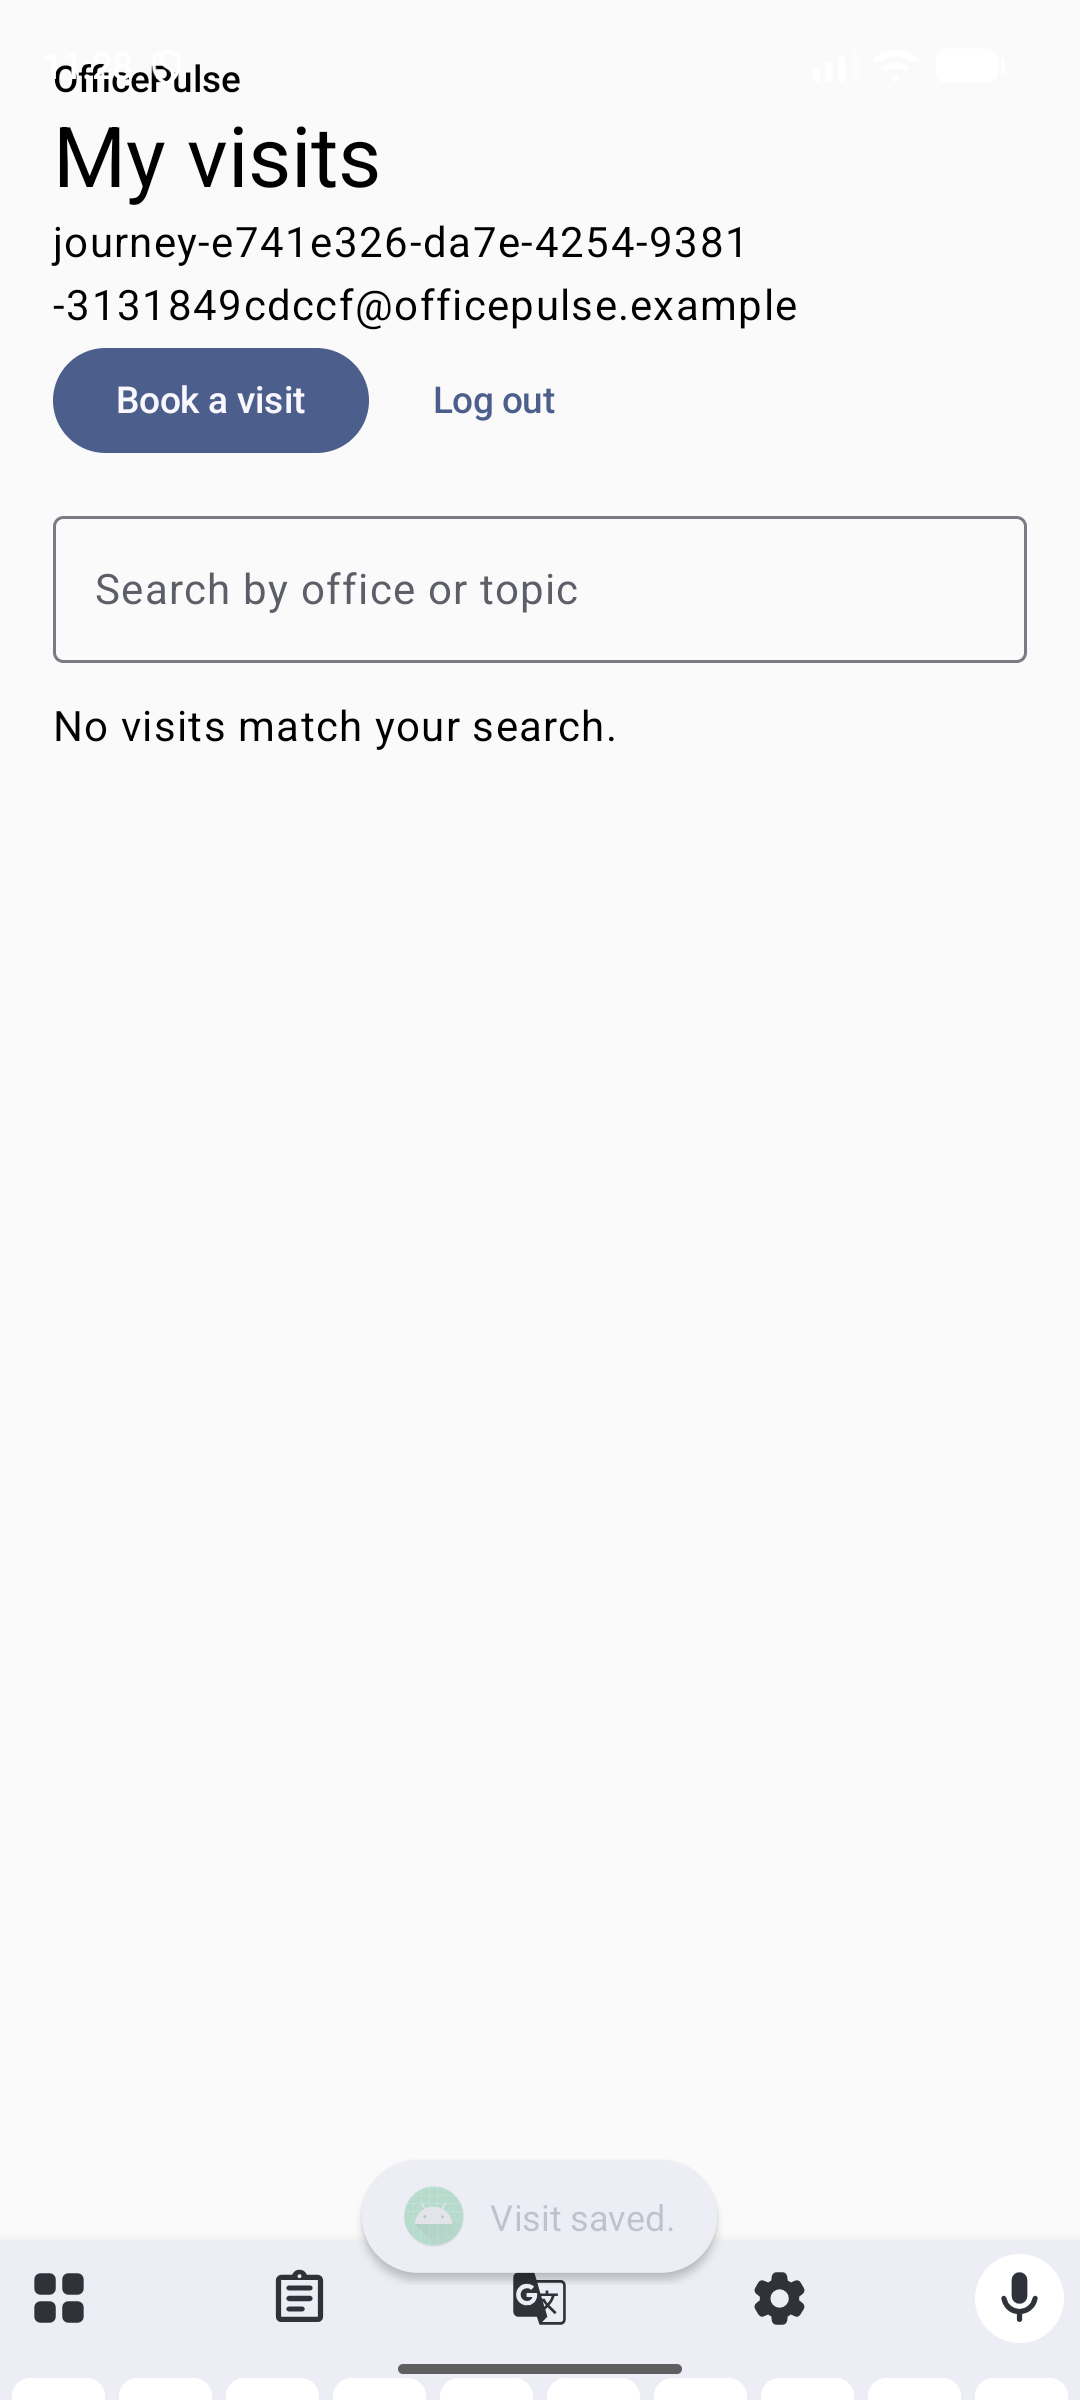
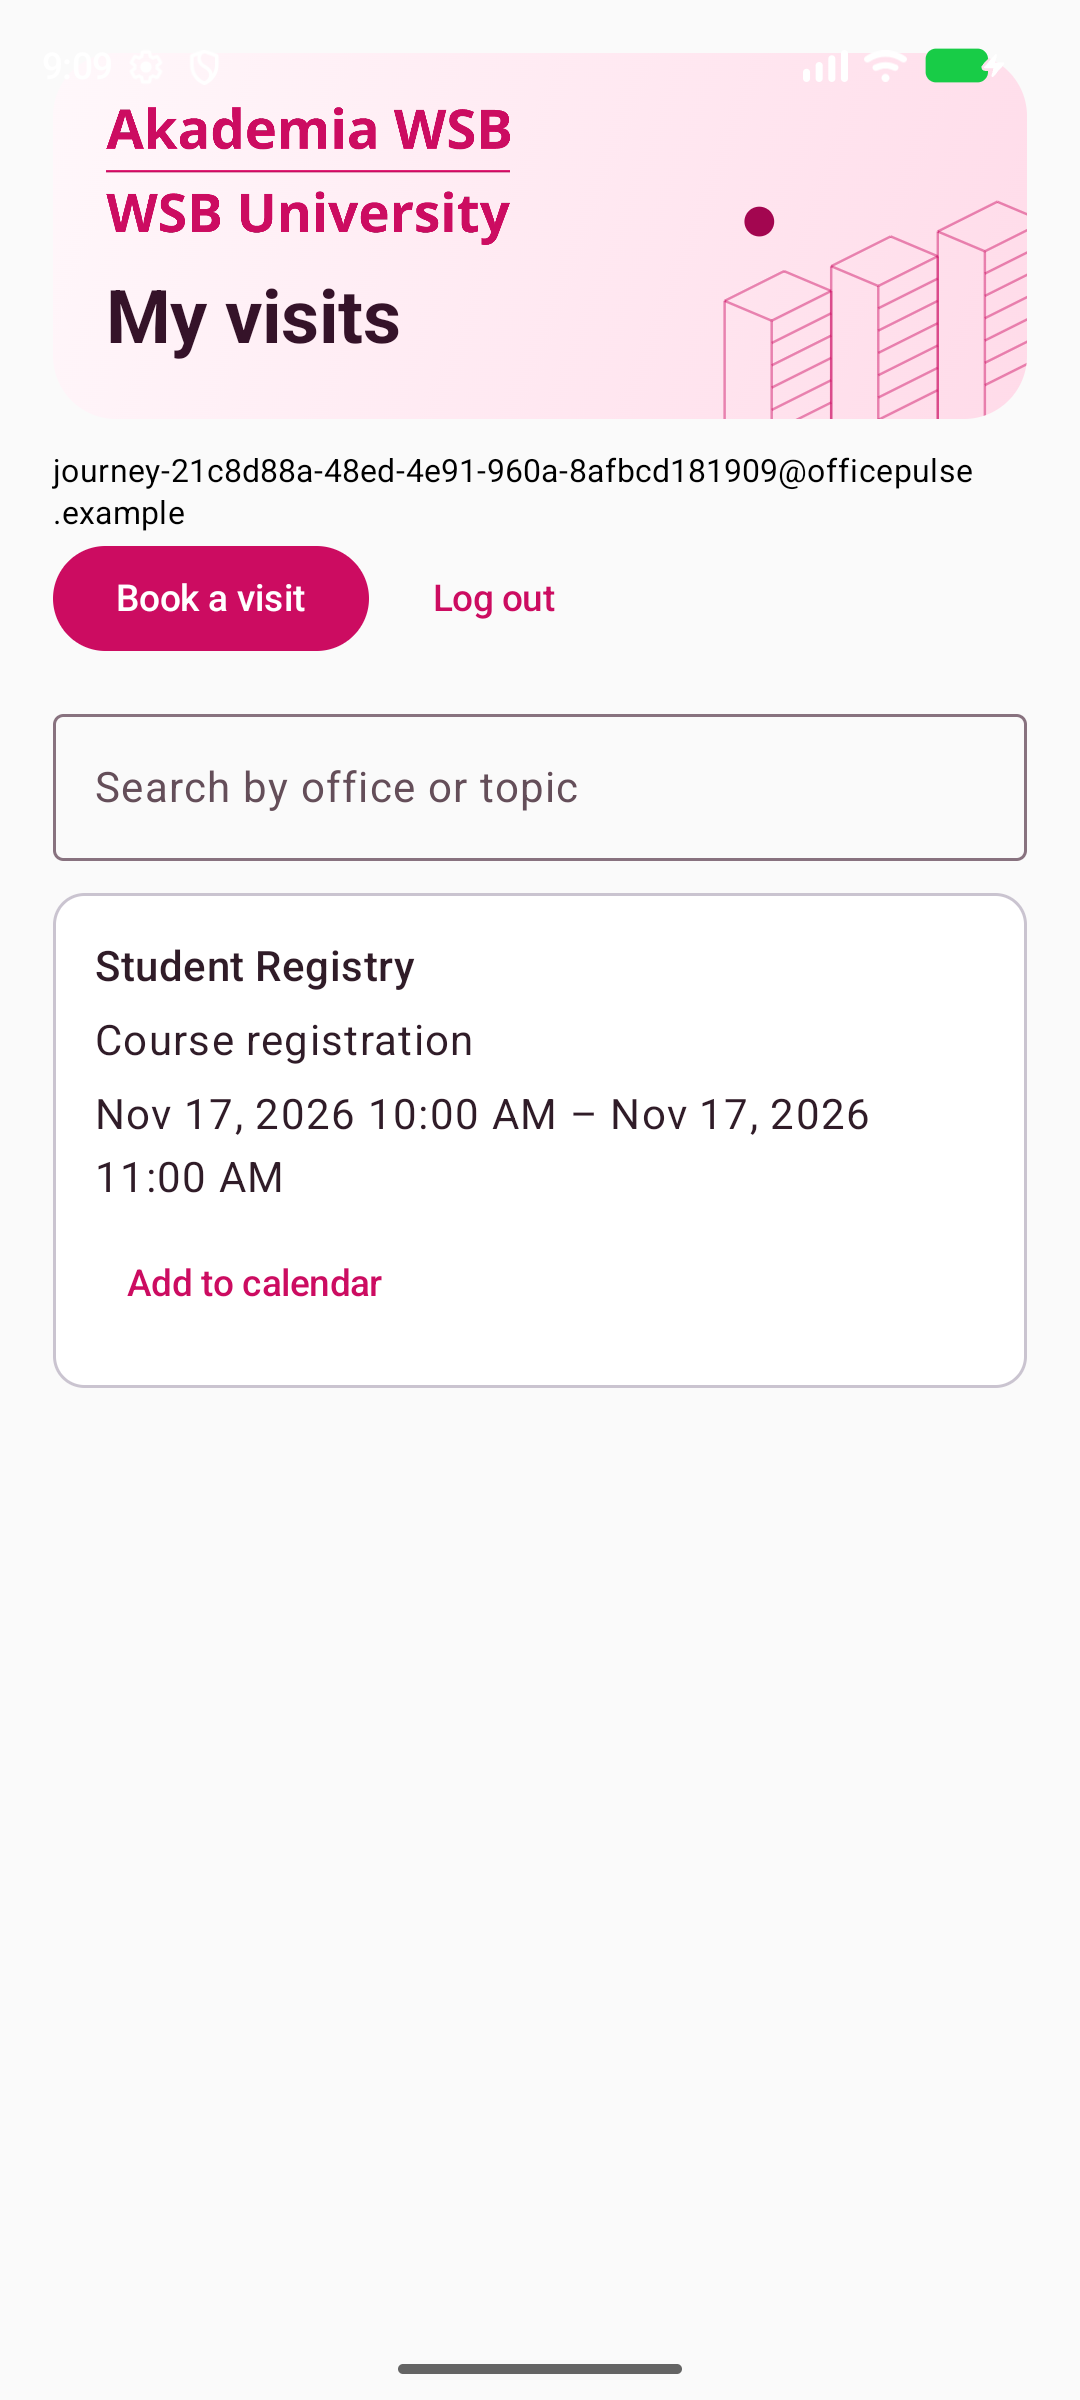
Save successful Lab 2 device tests, refreshed screenshots and team work plan

diff --git a/docs/lab2-work-plan.md b/docs/lab2-work-plan.md
@@ -1,0 +1,22 @@
+# OfficePulse sprint issues and proposed owners
+
+The assignees below own the next acceptance check or follow-up. Each teammate records their own changes, device checks, comments and approvals. The existing Lab 1 stories for browsing offices, booking, visits and queue updates are #4–#7. The last Lab 1 retrospective is #8.
+
+## Lab 2
+
+| Issue | Assignee | Acceptance criteria |
+| --- | --- | --- |
+| R2 · Seed read-only offices and configure Firestore | Mohamad Yazan Alsaloumi | Start the emulators, inspect three offices with numeric service minutes and verify the stack table. |
+| R3 · Verify the visit data model | Mohamad Yazan Alsaloumi | Compare every README field, type and setter with a stored booking. Confirm the owner comes from the session. |
+| R4 · Review the visit repository and state holders | Nasser Almassry | Confirm injectable repository, one ViewModel per booking screen, pure validation, and zero backend calls from Compose UI. Identify and implement any review fixes. |
+| R5 · Show my visits live | Mohamad Yazan Alsaloumi | Add a visit in the console while its owner is signed in. The row appears live. Verify that signing in as the other account hides it. |
+| R6 · Verify booking and rescheduling | Mohamad Yazan Alsaloumi | Demonstrate office, topic, date and cross-field errors, then save an edit. Creation timestamp stays unchanged and updated timestamp advances. |
+| R7 · Verify delete and cancel | Nasser Almassry | On a second device, cancel the named dialog and verify the record survives. Confirm deletion and verify the owner list and backend update. |
+| R8 · Enforce booking ownership and reference access | Nasser Almassry | Reproduce scenarios 1–8, attach results to the PR, then run valid owner CRUD with the same rules. |
+| R9 · Verify three booking extensions | Nasser Almassry | Link three separate extension PRs, test their acceptance criteria and attach screenshots. |
+| E1 · Search visits by office and topic | Mohamad Yazan Alsaloumi | Query both fields, vary case and clear the query. |
+| E3 · Distinguish empty history and no results | Nasser Almassry | Demonstrate both messages on a device and verify the empty history offers a first-booking action. |
+| E4 · Choose appointment dates and times | Mohamad Yazan Alsaloumi | Use native pickers for both endpoints and check end-after-start validation. |
+| Retro – Lab 2 | Nasser Almassry | Each member posts what went well and what did not. Agree on one or two specific actions. |
+| Lab 2 – submission | Mohamad Yazan Alsaloumi | Link the Sprint 2 board, reviewed PRs for R2–R9, screenshots for R5/R6/R9 and the retro. Assign the instructor and tag the reviewed main revision after acceptance. |
+

diff --git a/docs/lab2-progress.md b/docs/lab2-progress.md
@@ -23,4 +23,6 @@
 
 GitHub CLI has no signed-in account. Remote publication remains pending authentication. No submission tag has been created.
 
-4. Fresh Android build passed, including 26 JVM tests and lint. The rules suite passed all 11 retained scenarios, including Lab 2 scenarios 1–8. Device checks are running.
+4. Fresh Android build passed, including 26 JVM tests and lint. The rules suite passed all 11 retained scenarios, including Lab 2 scenarios 1–8. All nine device checks passed. Refreshed screenshots were extracted from this run.
+
+5. Saved separate local review branches for core, E1, E3 and E4. Prepared GitHub issue bodies and assignments. Publication requires the active device authorization.
